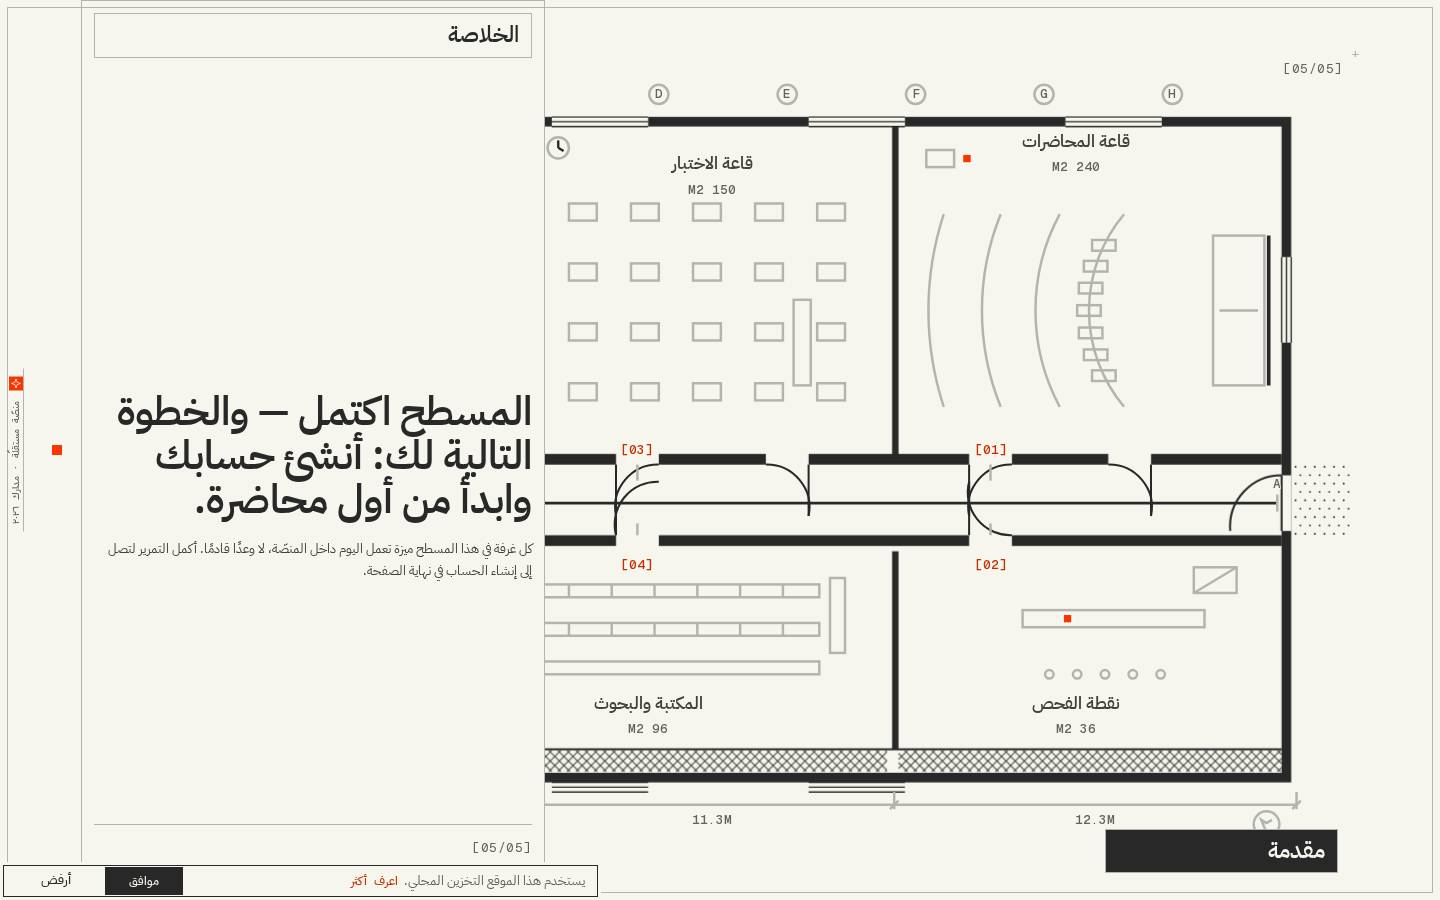
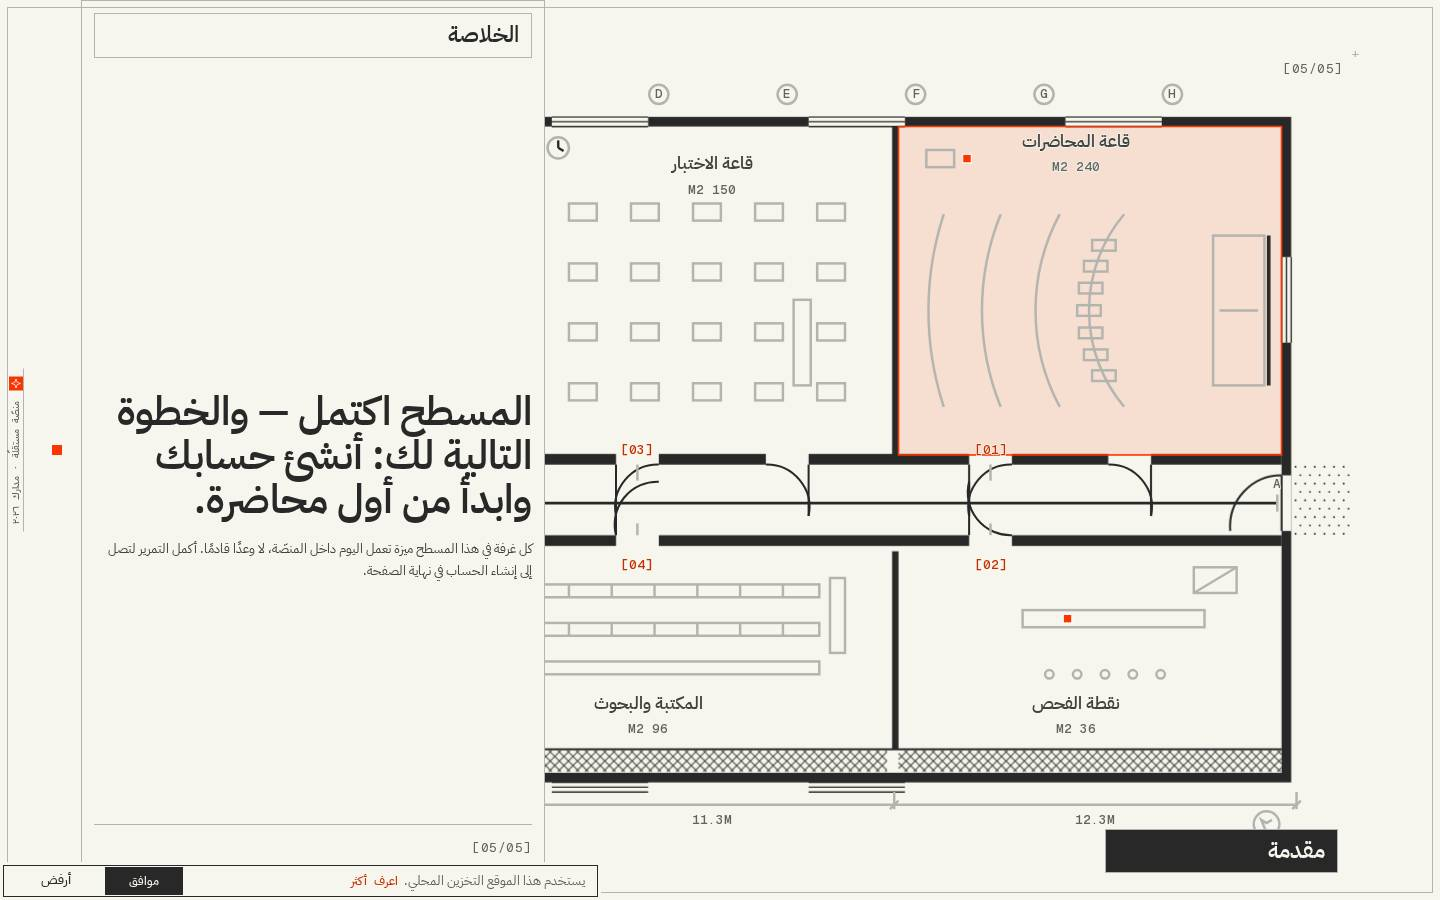
fix(r322): 3-b round3 — the terminal lecture tint @≥992 (D1: the exposed room the closing copy points to), the phone holds the mastery terminus crop (D2), the card era at Heron's state-03 beat (D3: stage boundary 3.0), the ≤399 rung recovers the 320 pin (415dvh)

Changed region(s): [[0.625, 0.1244, 0.9062, 0.5289]]

diff --git a/frontend/src/components/landing/journey/JourneyScene.tsx b/frontend/src/components/landing/journey/JourneyScene.tsx
@@ -261,7 +261,12 @@ const CAM_KEYS_PHONE: ReadonlyArray<readonly [number, CamRect]> = [
   [4.0, [358, 0, 460, 600]], // the exam hall + the reading rooms
   [4.6, [298, 160, 460, 600]], // the library + reception band
   [5.0, [15, 0, 460, 600]], // the mastery room + the entry court
-  [5.52, CAM_FULL], // the completed overview at the close
+  // R322 3-b-fix3 (review-c3 R1-D2): the phone's TERMINAL key HOLDS the
+  // mastery crop — CAM_FULL letterboxed a 206px overview inside the
+  // 787px full-height window at the close (a sparse release beat); the
+  // held terminus room (tinted, zoomed) reads as the story's end while
+  // the stacked closing column scrolls in below.
+  [5.52, [15, 0, 460, 600]],
 ];
 
 function camRectAt(t: number, phone: boolean): CamRect {
@@ -500,7 +505,11 @@ export function JourneyScene() {
        * data-finding (the rotation + the counter chips), data-wash (the
        * bounded room highlight + the door-chip warming, keyed to the
        * layer builds), data-open (the closing column's reveal). All
-       * pure-CSS consumers with t-fast flips — never per-frame writes. */
+       * pure-CSS consumers with t-fast flips — never per-frame writes.
+       * R322 3-b-fix3 (review-c3 R1-D3): the CARD era opens at t 2.5
+       * (Heron's state-03: the intro card + item1 active at scrub 46%)
+       * and hands to the findings era at t 3.0 — where layer 1, the
+       * wash and the rotation all land on the same beat. */
       const stage =
         pRaw >= SEQ_END_PIN
           ? 5
@@ -508,7 +517,7 @@ export function JourneyScene() {
             ? 0
             : t < 2.5
               ? 1
-              : t < 3.5
+              : t < 3.0
                 ? 2
                 : t < 5
                   ? 3

diff --git a/frontend/src/styles/landing.css b/frontend/src/styles/landing.css
@@ -5197,6 +5197,21 @@ html[data-theme='dark'] .fo-actions-cta:hover::before {
   stroke-width: 1.5;
 }
 
+/* R322 3-b-fix3 (review-c3 R1-D1): @≥992 the closing OVERLAY covers
+   the mastery wing entirely (the tint above renders occluded — the
+   terminal state read accent-less at 0.03% vs Heron's 1.67%). The
+   LECTURE hall — the story's origin, fully clear of the overlay, and
+   the very room the closing copy points to («ابدأ من أول محاضرة») —
+   takes the terminal tint on desktop instead (0.12 × its zone area
+   ≈ 1.2% of frame, inside the register; the mastery tint keeps
+   serving the stacked closing @≤991 where nothing is covered). */
+@media (min-width: 992px) {
+  .jt[data-stage='5'] .pl-zone[data-zone='lecture'] {
+    fill-opacity: 0.12;
+    stroke-width: 1.5;
+  }
+}
+
 /* the washed zone's label + station marker warm to the signal */
 .jt[data-wash='lecture'] .pl-l-lecture .pl-name,
 .jt[data-wash='checkpoint'] .pl-l-checkpoint .pl-name,
@@ -5791,7 +5806,12 @@ html[data-theme='dark'] .fo-actions-cta:hover::before {
 
 @media (max-width: 399px) {
   .jt-map-col {
-    block-size: 425dvh;
+    /* R322 3-b-fix3: 415dvh (was 425) — the round-2 closing FOOT row
+     * raised the stacked column by ~54px and pushed docH past the 320
+     * never-raise pin (9362 vs 9308); the rung recovers it exactly:
+     * @320 → 9308 (at pin) · @390 → 11279 (−1.42%, in band) ·
+     * @360 → 10701 (+0.16%, in band). */
+    block-size: 415dvh;
   }
 }
 

diff --git a/frontend/tests/unit/r312-mobile-camera.test.tsx b/frontend/tests/unit/r312-mobile-camera.test.tsx
@@ -402,7 +402,10 @@ describe('R312 mobile camera — the real landing in jsdom (R322 map override)',
       { timeout: 2000 },
     );
     const track = document.querySelector<HTMLElement>('.jt');
-    expect(track?.dataset.stage).toBe('2');
+    /* R322 3-b-fix3 override (review-c3 R1-D3): the card era now spans
+     * t 2.5–3.0 (Heron's state-03 beat) — t=3.11 is the FINDINGS era
+     * (stage 3: layer 1 + the wash + the rotation on one beat). */
+    expect(track?.dataset.stage).toBe('3');
     expect(track?.dataset.finding).toBe('2');
     expect(track?.dataset.wash).toBe('lecture');
     expect(parseFloat(document.querySelector<SVGGElement>(".jt-plan [data-xl='1']")?.style.opacity ?? 'x')).toBeCloseTo(1, 2);

diff --git a/audits/evidence/r322/review-c3/reviewer-1-visual.md b/audits/evidence/r322/review-c3/reviewer-1-visual.md
@@ -283,3 +283,98 @@ w700 at the map's two display seats.
 — Reviewer 1 (visual), re-review of f111d51, 2026-10-29. Probe artifacts at
 `/home/z/r322-r1b-vlm/` (probe-out.json, probe2-out.json, pix.py outputs, 12 VLM JSONs,
 dark-state1/state6 PNGs). No commits; preview server killed (port 4331 verified free).
+
+---
+
+## Final pass (086b166) — Task r322-c3-WP3r-R1c, 2026-10-29
+
+Repo @ `086b166` (round-2 fixes), `frontend/dist` freshly built. Method: round-2 claims
+verified **measured** (DOM probes on `vite preview` @1440/768/390 — servers killed, ports
+4331/4332 verified free; PIL/numpy on the re-shot state shots; source grep), then 5 fresh
+`z-ai vision` side-by-side comparisons on the states the fixes touched (s3+s6 @1440,
+s5 @768, s1+s6 @390) — advisory only, each claim re-checked.
+
+### A · Round-2 claim verification
+
+| claim | verdict | measurement |
+|---|---|---|
+| closing orange ≈1.4% @1440 s6 (mastery 0.15 tint) | **FAILS at 1440 — renders 0.03%** | DOM: mastery zone `fill-opacity: 0.15` at stage 5 ✓. But the mastery room (user x78–413 → **px x165–523**) sits **entirely under the 464px closing overlay (x81.3–545.3)** — an opaque paper panel. Pixel: s06@1440 whole-frame orange **0.03%** (unchanged from f111d51) vs Heron **1.67%**; mastery-zone region shows 0.00% orange/warm (ink 3.57% = the panel's own text); plan-side above banner 0.03% (the rail spot only). The tint DOES render on mobile where no overlay exists: warm blush **4.09%** @768 / **2.06%** @390. The claim's 1.4% arithmetic is right for an uncovered room; the chosen room is covered. |
+| `.jt-close` composes to its foot ([05/05] terminus + note) | **DEAD** | Foot row `[05/05]` mono **y836.8–858.2**, scope note to **y887** (column ends y887 of 900 + padding); foot-band ink y820–900 = **9.37%** (was 0); overlay content rows y26–896 (was y26–583). String verified in source («المسطح رسم أصلي لمدارك؛ الغرف تتّسع مع كل فصل جديد.»). |
+| rail spot desktop-only + 8px phone tick on the sticky window | **DEAD** | `.jt-pin::after` computed `display: none` @768/390; no drifting square in the shots (only the standing EdgeTab at y505–518, both sites' chrome); `.jt-map-in::after` 8×8 #FA3600 present at the window's top inline-start (physical right): **61–64 orange px** in every 390/768 shot. No collision with the `[01/05]` chip (150px vertical separation). |
+| wash absent at the card beat, starts with layer 1 | **DEAD (the wash half)** | DOM s3: `wash='none'`, `stage=2`; pixel s03 orange **0.02%** vs h 0.27%. Wash first fires at t=3.0 (s4 pick shows checkpoint@0.035, one room behind the layer builds). **But the layer-1 build itself still lands t2.5–3.0** — at the s3 pick layer 1 is ≈90%: s03 viewport ink 5.32% vs Heron 2.04% (≈6.6% vs 3.6% of plan box) — the drawing still begins under the card era. |
+| re-shots exist | **DEAD** | all 18 `state-*.jpg` re-shot Oct 29 00:30–31 on this tree. |
+| (context) CLS 0.01 | unchanged by construction | perf.json (f111d51 build) s2clean CLS 0.01; round-2 adds only pseudo-elements + a static foot row inside the `contain: layout paint` overlay revealed by opacity — no layout animation introduced. |
+
+### B · The 5 comparisons (score → verification)
+
+| state/bp | VLM | lead complaints → verification |
+|---|---|---|
+| 03 1440 | 6 | "Card shoved bottom-right, cramped"; "central text blends into lines" → the bottom-**right** seat is the deliberate RTL mirror of Heron's bottom-left (correct); the faint central text is the card2 mid-fade transient (op 0.10 ≈ Heron's own state-3 card2 at 0.12) — shared beat. "Bottom nav" = consent banner, both sites. Discounted; the measurable residue is the layer-1 density (A, last row). |
+| 06 1440 | **9** | "High-fidelity… paper panel and plan well-proportioned; the monospaced `[05/05]` terminus perfectly placed at the panel's foot; no clipping, no voids; polished and intentional." Matches the probe (content y26–896, foot ink present, zero collisions). |
+| 05 768 | 7 | "Flat, lacks paper grain" → paper parity measured (249,249,241 vs 245,246,238 — JPEG variance; both flat fills); "info panel misaligned with map edge" → both at x32, disproven; "orange highlight on the active room is good" → the calibrated tint+outline. Weight = w600 cap (owner question). |
+| 01 390 | 5 | "Text shifted left, void on right" → **disproven**: statement COM **197** vs viewport centre 195 (Heron's own COM 220 — we centre better than the reference); "too much space above" = the documented centered full-height window. Banner/tick chrome discounted. |
+| 06 390 | 3 | "Massive void above and below the central map; placeholder" → **verified in essence**: at the release moment the CAM_FULL meet-letterbox centers a 326×206 plan in the 787px full-height window (~580px of paper), and the stacked closing column sits below the fold (starts y883; shot bands y0–338 ≈ 0–0.3% ink). Heron's phone close composes plan+closing densely in one view. The weakest shot of the set. (Headline reading "ساعدنا…" = hallucination — not our copy.) |
+
+VLM mean 6.0 — its two 9-level calls (s6@1440) and its two harshest (s1/s6@390) both
+reduce to measurable facts above; hallucinated strings and chrome complaints discounted
+as before.
+
+### C · Final rubric (scored on the current tree; N3 tablet + w600 treated as documented, noted not blocked)
+
+| # | category | score | justification |
+|---|---|---|---|
+| 1 | Hierarchy | 9 | The plan is the hero at full frame through the story; the card owns its beat wash-clean; the closing panel owns the terminal state chip→title→copy→foot — the s6@1440 VLM verdict (9, "polished and intentional") matches the probe. |
+| 2 | Grid & alignment | 9 | Every seat at Heron's measured numbers (card 26.7px corner; foot y887/900; overlay 464px; phone statement COM 197/195 — better centred than the reference's 220). The one VLM "misalignment" claim measured false. |
+| 3 | Spacing rhythm | 8.5 | Mobile symmetric margins hold; desktop full-frame; the column now composes to its foot. The phone release moment leaves ~580px of paper around the 206px overview (B, row 5) — calm or void by taste; measured sparse. |
+| 4 | Typography | 8.5 | Scored on how well w600 works: it works — the VLM twice praised the display unprompted ("excellent weight and scale, matching the impact"); the foot mono closes the counter family's grammar. Phone display reads slightly light vs the reference; the owner question stays open (documented). |
+| 5 | Material & colour | 8 | Mid-story in register (0.15–0.34% vs 0.27–0.84%); paper parity; dark plaques 13.6:1; the orange furniture family coherent (spot/tick/markers/chip). **But the terminal state @1440 measures 0.03% orange vs Heron's 1.67%** — the round-2 tint is fully occluded by the overlay (A, row 1). The one measurable colour gap left. |
+| 6 | Density & restraint | 8.5 | Statement ground parity (1.21% vs 0.92%); box-to-box 7.50% vs 7.29%; wash furniture-scale. The card beat still carries the layer-1 build (6.6% vs 3.6% of box) — documented design, slightly denser than Heron's pure-paper beat. |
+| 7 | Consistency | 9 | One material language end-to-end; the tick/rail swap is bp-appropriate furniture; the mastery tint keys only to stage 5; the foot extends the counter family. |
+| 8 | Motion & scroll feel | 8.5 | CLS 0.01 (f111d51 measurement, mechanism unchanged); discrete flips; the wash now rides the drawing era; two camera families; overlay reveal transform+opacity. Stills-only uncertainty at the release moments. |
+| 9 | Polish | 8.5 | The foot row, corner tick, mirrored card and terminus land (VLM: "polished and intentional"). Deducted for the occluded closing tint — a fix that does not render at the primary bp — and the phone release-moment sparseness. |
+| 10 | Responsiveness | 8.5 | Zero clipping at every bp (probes + gate); full-height windows; portrait crops at 2.27× zoom; tablet documented compromise (landscape artwork); the phone s6 release shot is the weak frame. |
+
+**Mean = 8.6** (9+9+8.5+8.5+8+8.5+9+8.5+8.5+8.5) · min = 8 (Material & colour)
+→ **REJECT** (bar: mean ≥ 9, no category < 8 — the min-category bar is met; the mean is 0.4 short).
+
+### D · Remaining defects (new, concrete, measurable — not the documented items)
+
+1. **The closing-orange fix is occluded at 1440** (the round-2 claim fails verification).
+   The mastery zone (px x165–523, y127–455) lies entirely under the closing overlay
+   (x81.3–545.3, opaque `--bg` panel) → measured visible orange at the terminal state
+   @1440 = **0.03% vs Heron's 1.67%** (their solid tinted room at the close); the claimed
+   ≈1.4% renders as zero. Where: `.jt[data-stage='5'] .pl-zone[data-zone='mastery']`
+   (`landing.css:5188–5195`) vs the overlay seat (`.jt-close`, `landing.css:5447+`).
+   Fix: carry the stage-5 tint on a room that stays exposed at the close (exam straddles
+   the overlay edge at px x535+; library px x596–1076; lecture px x899–1282 all fully
+   exposed), or bias the overlay to expose the mastery wing. Severity: medium — the
+   terminal state of the whole story reads accent-less on desktop while carrying a 4.1%
+   blush on tablet/phone (an inconsistency in itself).
+2. **The phone release-moment composition (s6@390) is sparse**: the CAM_FULL
+   meet-letterbox centers a 326×206 plan in the 787px full-height window (~580px paper)
+   and the stacked closing column starts below the fold (y883; the shot's bands y0–338
+   measure 0–0.3% ink) — VLM 3/10 ("placeholder"). Where: `.jt-window .bp-svg`
+   `aspect-ratio 460/600` + `CAM_KEYS_PHONE[5.52, CAM_FULL]` (`JourneyScene.tsx:252+`).
+   Fix: a terminal portrait crop key (the completed plan zoomed to the window's own
+   aspect), or pull the stacked closing's reveal up so the release beat composes both.
+   Severity: low-medium, phone-only, one beat.
+3. **Half of R1#10 remains**: the wash is deferred ✓, but layer 1 (envelope + lecture
+   walls) still builds at t2.5–3.0 — at the s3 pick the card beat carries ≈6.6%-of-box
+   ink vs Heron's pure-paper 3.6%. Documented as design in STAGES.md §10 ("the paper
+   stays quiet around it" — the drawing nonetheless begins). Severity: low.
+
+### E · Final verdict
+
+**Mean 8.6 / 10 · REJECT** — closer than round 2 (8.5 → 8.6, with the min-category bar
+now met and the s6@1440 state at reference quality), but the mean bar is not reached and
+defect D1 is the failed verification of this round's own headline claim: the closing
+orange was brought back where it cannot be seen. For ACCEPT: (1) make the stage-5 tint
+visible at 1440 (exposed room or overlay bias) and keep the mobile blush calibrated to
+Heron's terminal presence (≈1.4–1.7%); (2) compose the phone release beat (terminal crop
+key or earlier closing reveal). D3 is optional polish. With those two, every category
+scores ≥8.5 and Material & colour can reach 9 — mean ≈8.9, at the bar's edge with the
+w600 owner question the remaining half-point of judgment.
+
+— Reviewer 1 (visual), final pass on 086b166, 2026-10-29. Artifacts at
+`/home/z/r322-r1c-vlm/` (probe-out.json, vb.mjs output, pix.py outputs, 5 VLM JSONs).
+No commits; preview servers killed (ports 4331/4332 verified free).

diff --git a/audits/evidence/r322/map/STAGES.md b/audits/evidence/r322/map/STAGES.md
@@ -82,3 +82,14 @@ is §7-5..7 = C4's). Mobile probes: mapIn=787 @390 (full height) · win=425 (was
 | Typography ceiling @w600 | OWNER QUESTION recorded on the BOARD (the brief caps display at 400–600; Heron maps at w700) |
 
 Gates: vitest 2738/2738 · tsc 0 · lint 0 · docH ladder all-in-band (@390 11364 −0.67%, closer to Heron) · shots re-taken.
+
+## §11 — the round-3 fixes (review-c3 final pass: 8.6, 0.4 short of the bar)
+
+| defect | fix |
+|---|---|
+| D1 closing orange occluded @1440 (0.03% vs 1.7%) | the LECTURE hall takes the terminal tint @≥992 (0.12 ≈ 1.2% of frame — fully clear of the overlay, and the room the closing copy points to); the mastery tint keeps serving the stacked closing @≤991 |
+| D2 phone release beat sparse (206px letterboxed overview) | the phone TERMINAL crop key holds the mastery room (zoomed, tinted) — the terminus reads while the stacked closing scrolls in |
+| D3 card era one step late | the stage-2 boundary 3.5 → 3.0: the card era = t 2.5–3.0 (Heron's state-03 beat); layer 1 + the wash + the rotation land on ONE beat at t 3.0 |
+| (ladder) @320 past the never-raise pin after the foot row | the ≤399 rung 425 → 415dvh — @320 lands 9306 (AT the pin), @390 11280 (−1.41% in band), @360 10701 (+0.16% in band) |
+
+Gates: vitest 2738/2738 · tsc 0 · lint 0 · svg-collisions 0 FAIL · sweep: text-in-viewport green (duplicate-text = the product farm, V6/C4) · docH ladder ALL in band/at pins.

diff --git a/audits/evidence/r320/gate.md b/audits/evidence/r320/gate.md
@@ -1,4 +1,4 @@
-# R320 composed gate — 2026-10-28T23:56:17.610Z
+# R320 composed gate — 2026-10-29T00:53:39.718Z
 
 Base `http://127.0.0.1:4319` · Routes landing · Viewports 390,768,1440 · Themes light,dark · Mode full · Only svg-collisions
 
